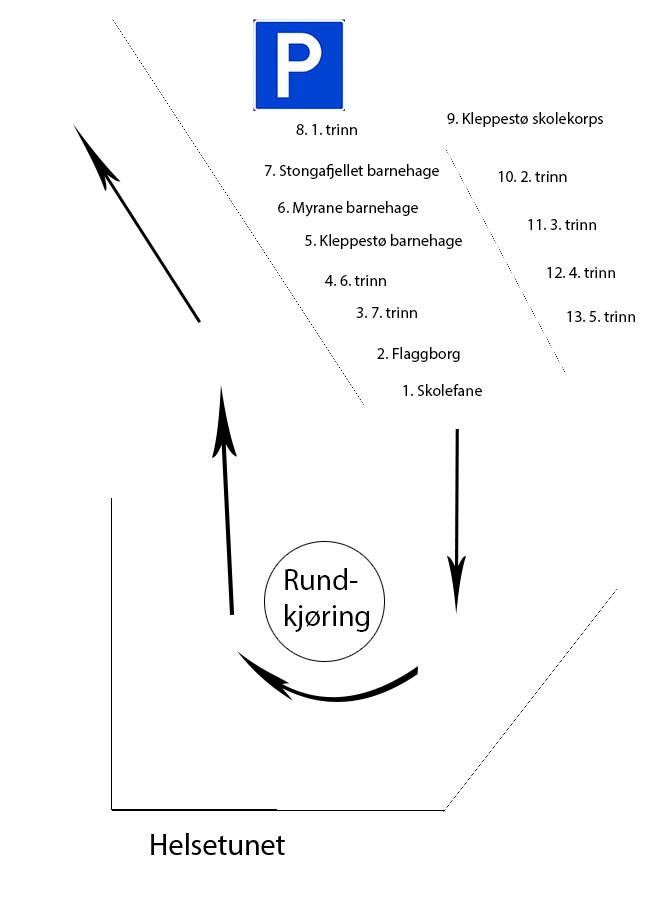
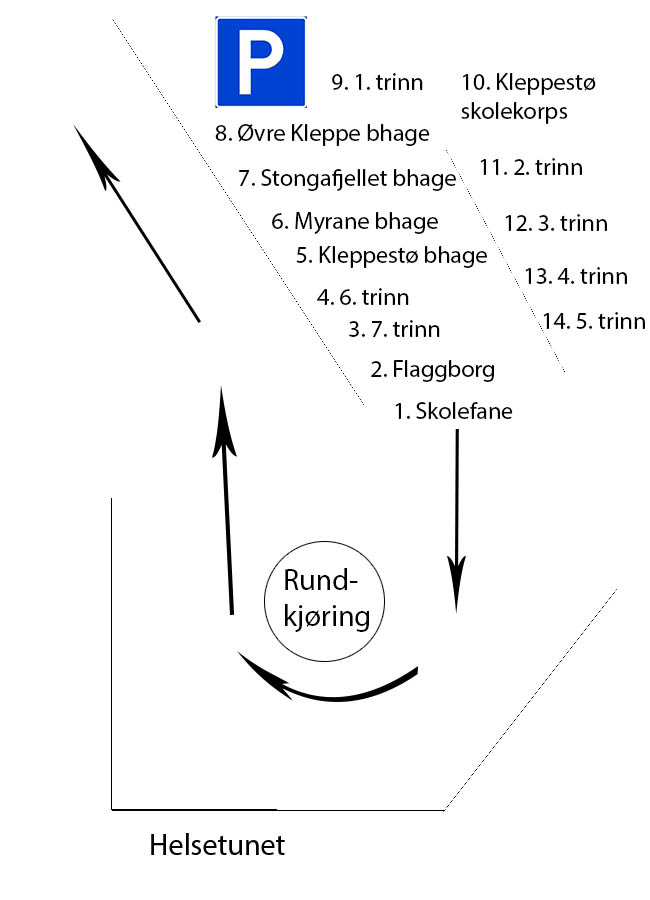
La til ØK barnehage

Changed region(s): [[0.3077, 0.0, 0.9538, 0.4667], [0.8308, 0.3422, 1.0, 0.3733], [0.5846, 0.0622, 0.6462, 0.0933]]

diff --git a/priser.html b/priser.html
@@ -11,8 +11,9 @@
         <h1>Kafé og boder</h1>
         <p><b>Nytt i år: Vi innfører et bongsystem for å redusere køene.</b> <br/><br/>
             Bongene er pålydende <b>10 kr</b> stykket. Det vil bli en egen bod på skolen der dere kan kjøpe ut bonger, slik at transaksjonen i kassen vil gå mye fortere.<br/><br/>
-            Det blir også mulig å kjøpe ut bonger <b>på forhånd 16. mai kl. 18:00-20:00 på ungdomsskolen</b>, i tiden for kakelevering, og <b>på Helsetunet kl. 10:30 - 11:00.</b></p>
-        <p>Vi anbefaler sterkt at du forhåndskjøper bonger, så unngår du køen! Betaling med Vipps, kontant (kun eksakt beløp) eller kort.</p>
+            Det blir også mulig å kjøpe ut bonger <b>på forhånd 16. mai kl. 18:00-20:00 på ungdomsskolen</b>, i tiden for kakelevering, og <b>på Helsetunet 17. mai kl. 10:30 - 11:00.</b></p>
+        <p>Vi anbefaler sterkt at du forhåndskjøper bonger, så unngår du køen! Betaling med Vipps, kontant (kun eksakt beløp) eller kort.<br/>
+        Bongene kan ikke veksles tilbake, men om du har bonger til overs, kan de også brukes neste år.</p>
         <h2>Priser</h2>
         <p>
             <b>Brus:</b> 3 stk bonger<br/><br/>

diff --git a/togrute.html b/togrute.html
@@ -31,12 +31,13 @@
         5. Kleppestø barnehage<br/>
         6. Myrane barnehage<br/>
         7. Stongafjellet barnehage<br/>
-        8. 1. trinn<br/>
-        9. Kleppestø skolekorps<br/>
-        10. 2. trinn<br/>
-        11. 3. trinn<br/>
-        12. 4. trinn<br/>
-        13. 5. trinn<br/>
+        8. Øvre Kleppe barnehage<br/>
+        9. 1. trinn<br/>
+        10. Kleppestø skolekorps<br/>
+        11. 2. trinn<br/>
+        12. 3. trinn<br/>
+        13. 4. trinn<br/>
+        14. 5. trinn<br/>
     </p>
     <p><a href="togrute.html">Togrute</a> <a href="program.html">Program</a> <a href="sanger.html">Sanger</a> <a href="priser.html">Kafé</a> <a href="sponsorer.html">Sponsorer</a></p>
 </body>
